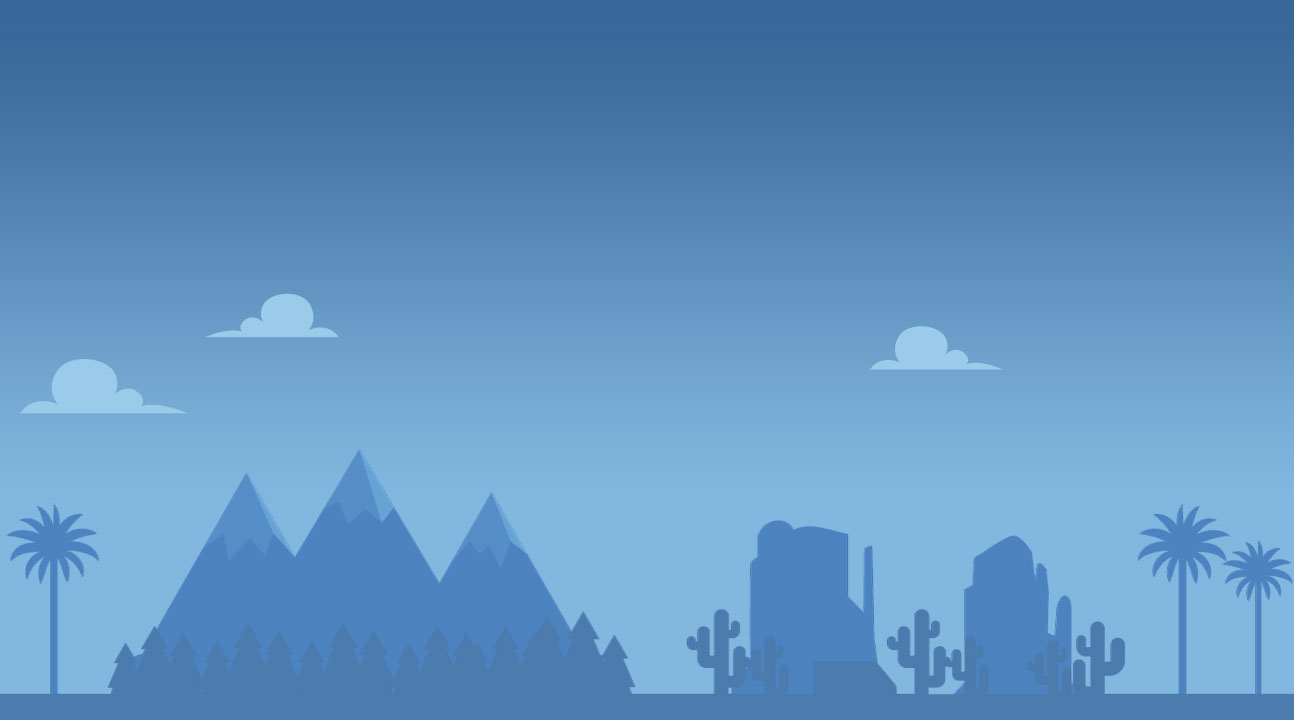
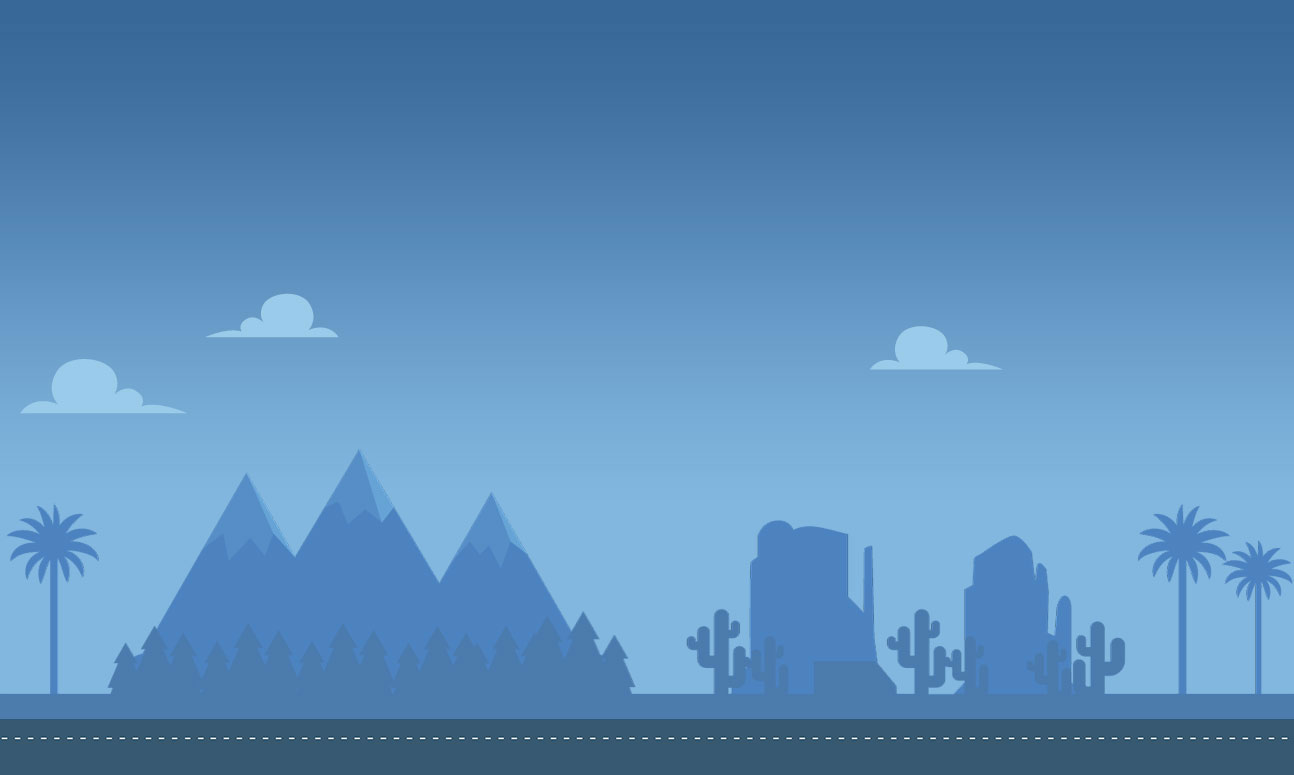
gettting cars working

diff --git a/summer-reading/index.html b/summer-reading/index.html
@@ -57,6 +57,7 @@ e.async=true;var t=document.getElementsByTagName("script")[0];t.parentNode.inser
 <style>
 .sky-row {
 	background: #386799 url("landscape.jpg") bottom center repeat-x;
+	
 }
 .sign-wrapper {
 	display: flex;
@@ -68,16 +69,30 @@ e.async=true;var t=document.getElementsByTagName("script")[0];t.parentNode.inser
 	height: 800px;
 	margin: 20px 0 0;
 }
-.road-top {
-	height: 49px;
-	background: #214760 url(road.png) repeat-x center center;
+.sign-three {
+	display: flex;
+	align-content: center;
+}
+.sign-three-middle {
+	background: transparent url("sign-three-middle.png") center center;
+	height: 300px;
+	width: 153px;
+}
+
+.right-lane {
+	min-height: 160px;
+	background: transparent url("right-lane-vehicles.png") repeat-x bottom center;
+	-webkit-animation: slide 26s linear infinite;
+	animation: slide 26s linear infinite;
+	margin-top: -200px;
+	padding-bottom: 200px;
 }
  @-webkit-keyframes slide {
  from {
 background-position: 0 0;
 }
  to {
-background-position: -1717px 0;
+background-position: -2900px 0;
 }
 }
  @keyframes slide {
@@ -85,7 +100,31 @@ background-position: -1717px 0;
 background-position: 0 0;
 }
  to {
-background-position: -1717px 0;
+background-position: -2900px 0;
+}
+}
+.left-lane {
+	min-height: 200px;
+	background: transparent url("left-lane-vehicles.png") repeat-x bottom center;
+	-webkit-animation: left-slide 22s linear infinite;
+	animation: left-slide 22s linear infinite;
+	margin-top: -215px;
+	padding-bottom: 215px;
+}
+ @-webkit-keyframes left-slide {
+ from {
+background-position: 0 0;
+}
+ to {
+background-position: 3050px 0;
+}
+}
+ @keyframes left-slide {
+ from {
+background-position: 0 0;
+}
+ to {
+background-position: 3050px 0;
 }
 }
 </style>
@@ -268,10 +307,14 @@ background-position: -1717px 0;
   <!-- InstanceBeginEditable name="Content" -->
   <div class="row sky-row">
     <div class="sign-wrapper">
+      <div class="sign-one-item"></div>
       <div class="billboard-item"></div>
+      <div class="sign-three-item">
+        
+      </div>
     </div>
-  </div>
-  <div class="row road-top"></div>
+  </div><div class="row right-lane"></div>
+	<div class="row left-lane"></div>
   <!-- InstanceEndEditable --> </div>
 <div class="social-footer bg-gray-10 padding-top-15 padding-bottom-20">
   <div class="bg-gray-10 clearfix padding-bottom-20">
